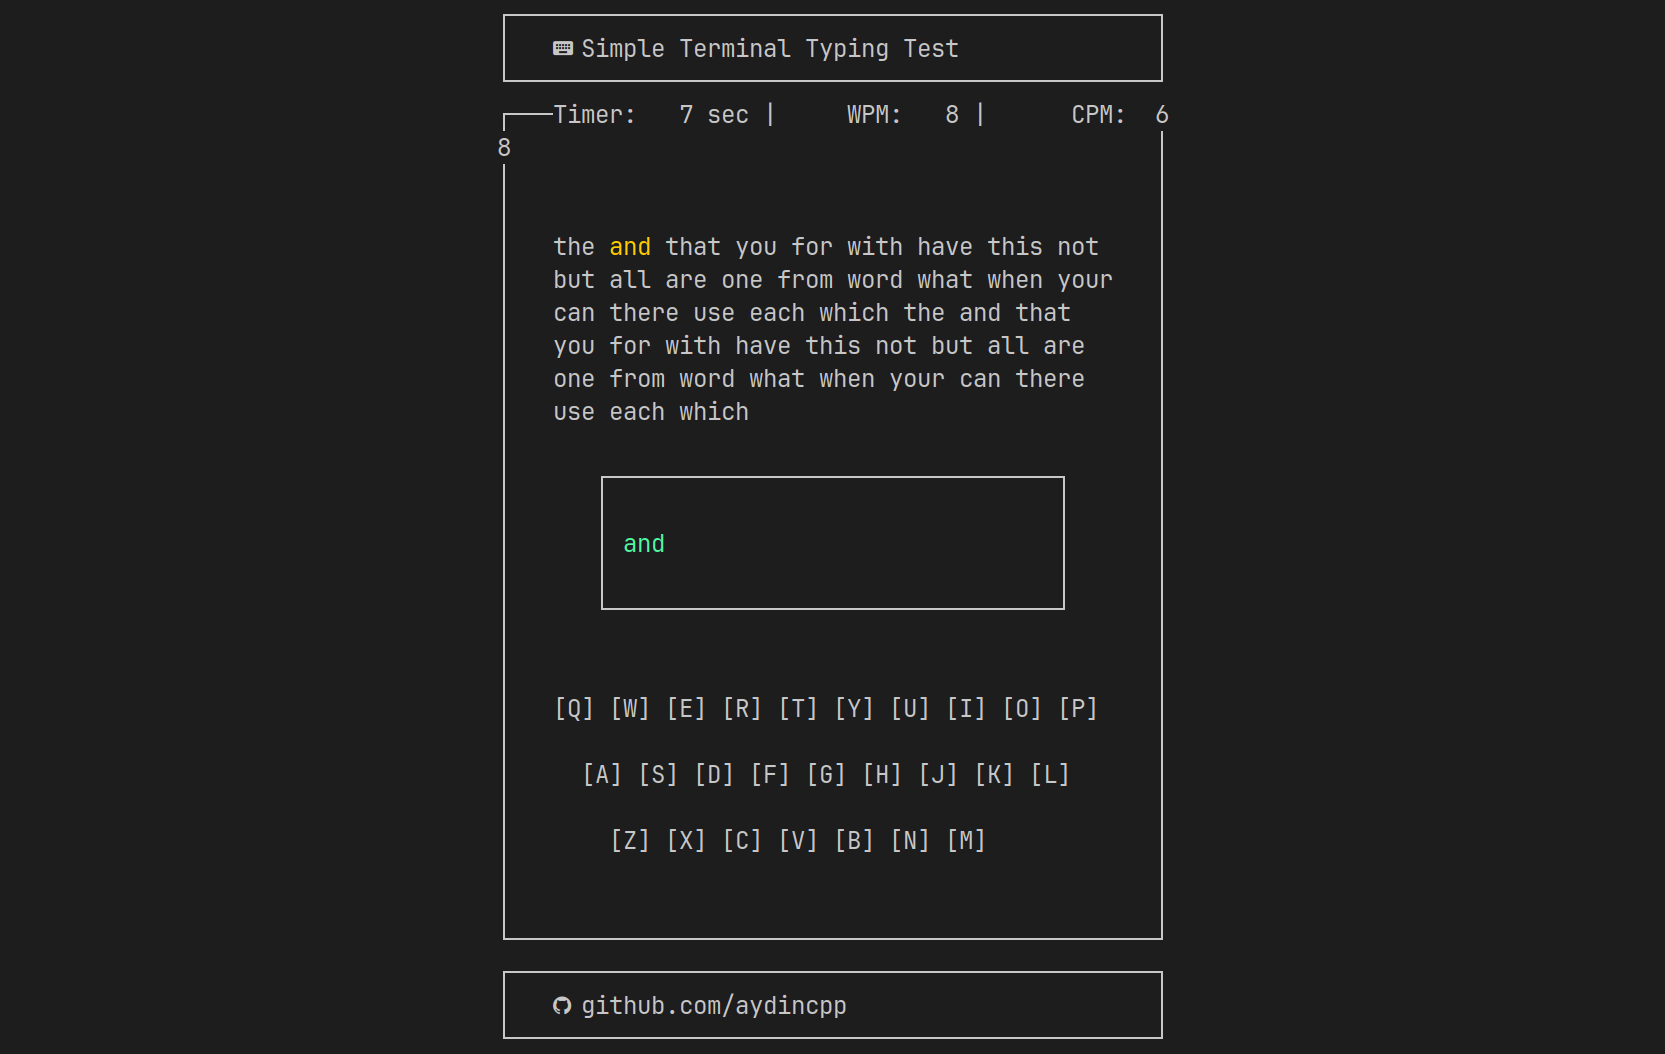
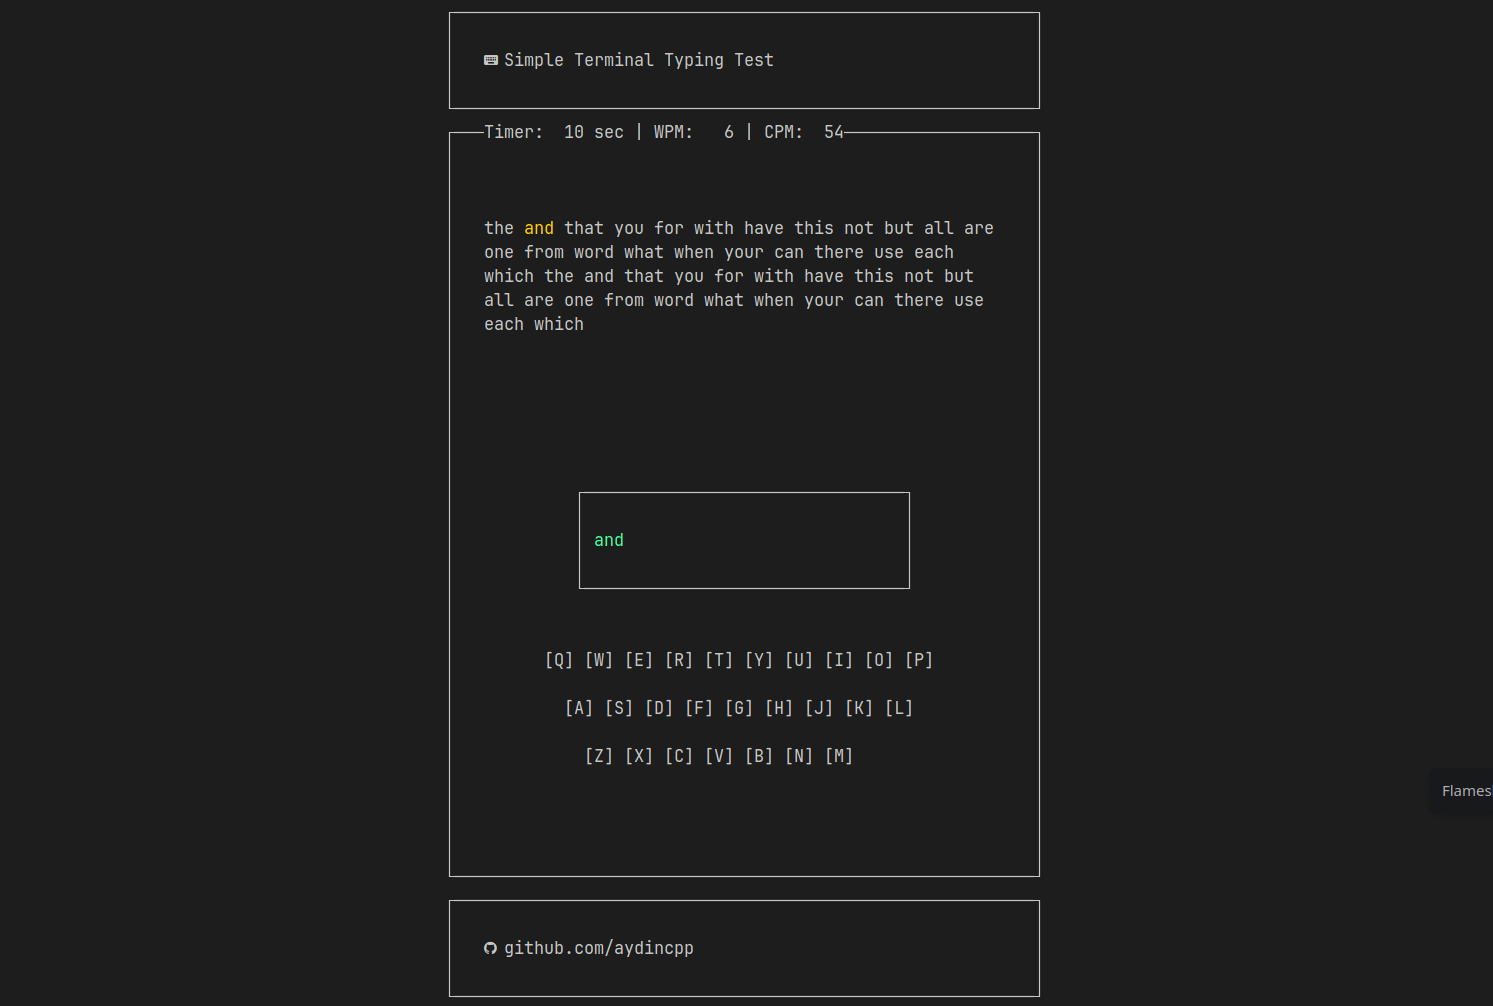
README.md updated

diff --git a/main.c b/main.c
@@ -309,7 +309,7 @@ restart:;
             }
 
             wmove(main_window, 0, g_main_win.padding);
-            wprintw(main_window, "Timer: %3lu sec |\t WPM: %3d |\t CPM: %3d", timer_sec, wpm, cpm);
+            wprintw(main_window, "Timer: %3lu sec | WPM: %3d | CPM: %3d", timer_sec, wpm, cpm);
             wrefresh(main_window);
         }
         char ch = getch();
